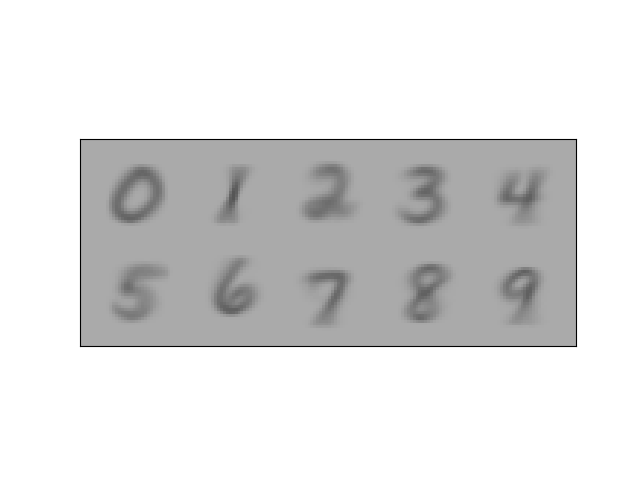
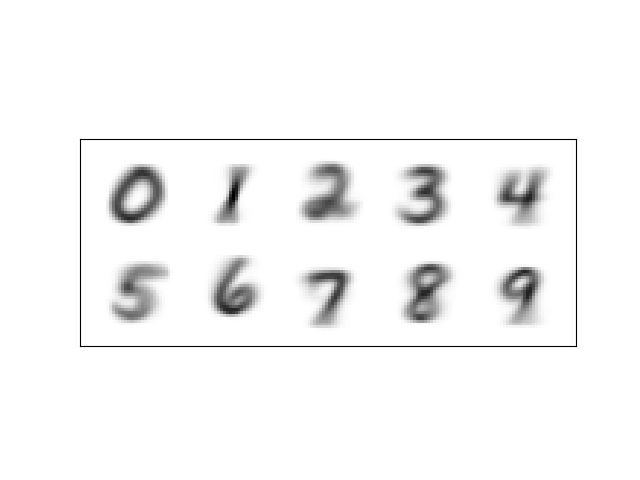
Fixed numerical instability by computing log probabilities

diff --git a/starter.py b/starter.py
@@ -45,22 +45,23 @@ if 1 in parts:
     for c in range(10):
         x_c = train_images[train_labels[:, c] == 1]
         n = x_c.shape[0]
-        theta[c] = (n + x_c.sum(axis=0)) / (3 * n)
+        theta[c] = (x_c.sum(axis=0) + 1) / (n + 2)
     f, ax = plt.subplots()
     save_images(theta, 'results/1/thetas.png', vmin=0.0, vmax=1.0)
 
     # e
-    def c_given_x(x):
+    def c_given_x(x, log_probs=False):
         p = np.ndarray(shape=(x.shape[0], 10))
         for c in range(10):
-            p[:, c] = 0.1 * (theta[c] ** x * (1 - theta[c]) ** (1 - x)).prod(axis=1)
-        p = p / p.sum(axis=1, keepdims=True)
+            p[:, c] = np.log(0.1) + np.log(theta[c] ** x * (1 - theta[c]) ** (1 - x)).sum(axis=1)
+        p = p - logsumexp(p, axis=1, keepdims=True)
+        if not log_probs:
+            p = np.exp(p)
         return p
     def accuracy(pred, target):
         pred, target = pred.argmax(axis=1), target.argmax(axis=1)
         return (pred == target).sum() / pred.shape[0]
-    c_given_x_train = c_given_x(train_images)
-    log_likelihood_train = np.log(c_given_x_train).mean(axis=0)
+    log_likelihood_train = c_given_x(train_images, log_probs=True).mean(axis=0)
     print('Class mean log likelihoods (train): %s' % log_likelihood_train.tolist())
     with open('results/1/log_likelihoods_train.txt', 'w') as f:
         f.writelines(['%d: %s\n' % (c, ll) for c, ll in enumerate(log_likelihood_train)])
